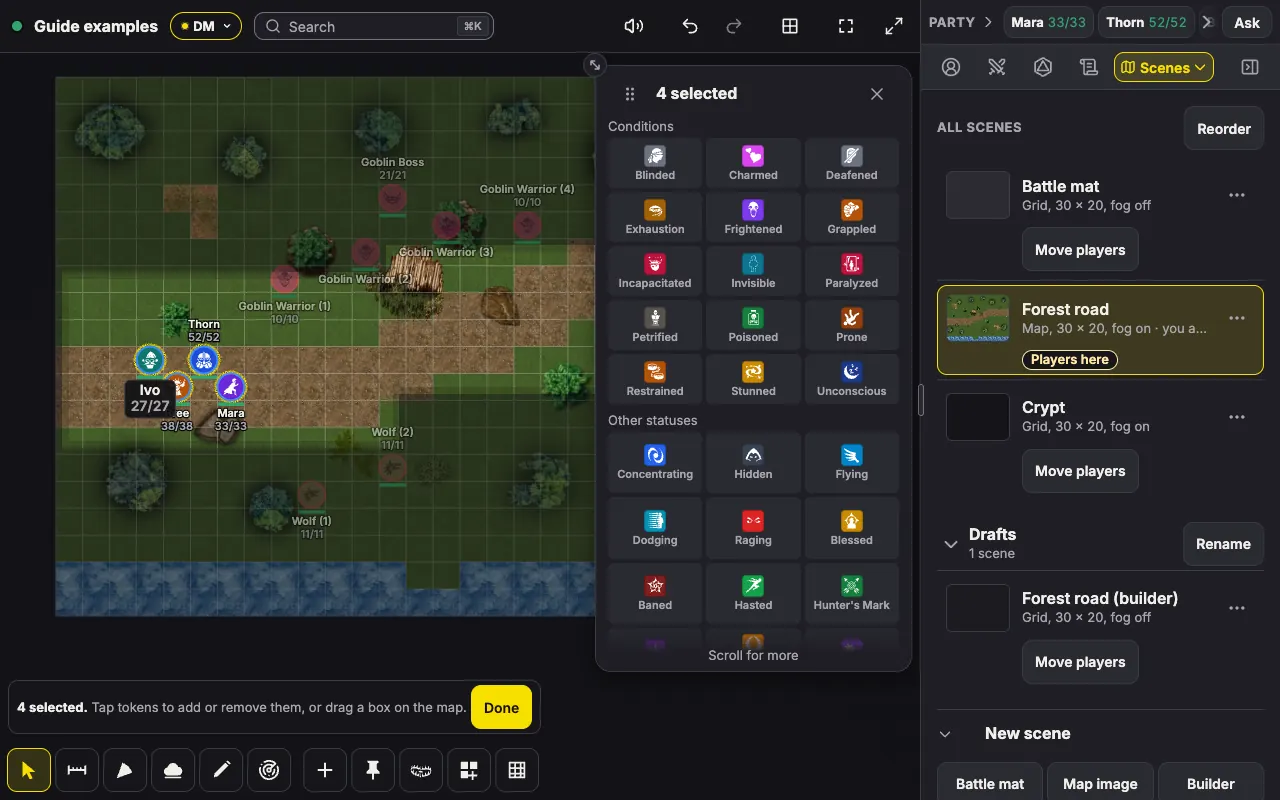
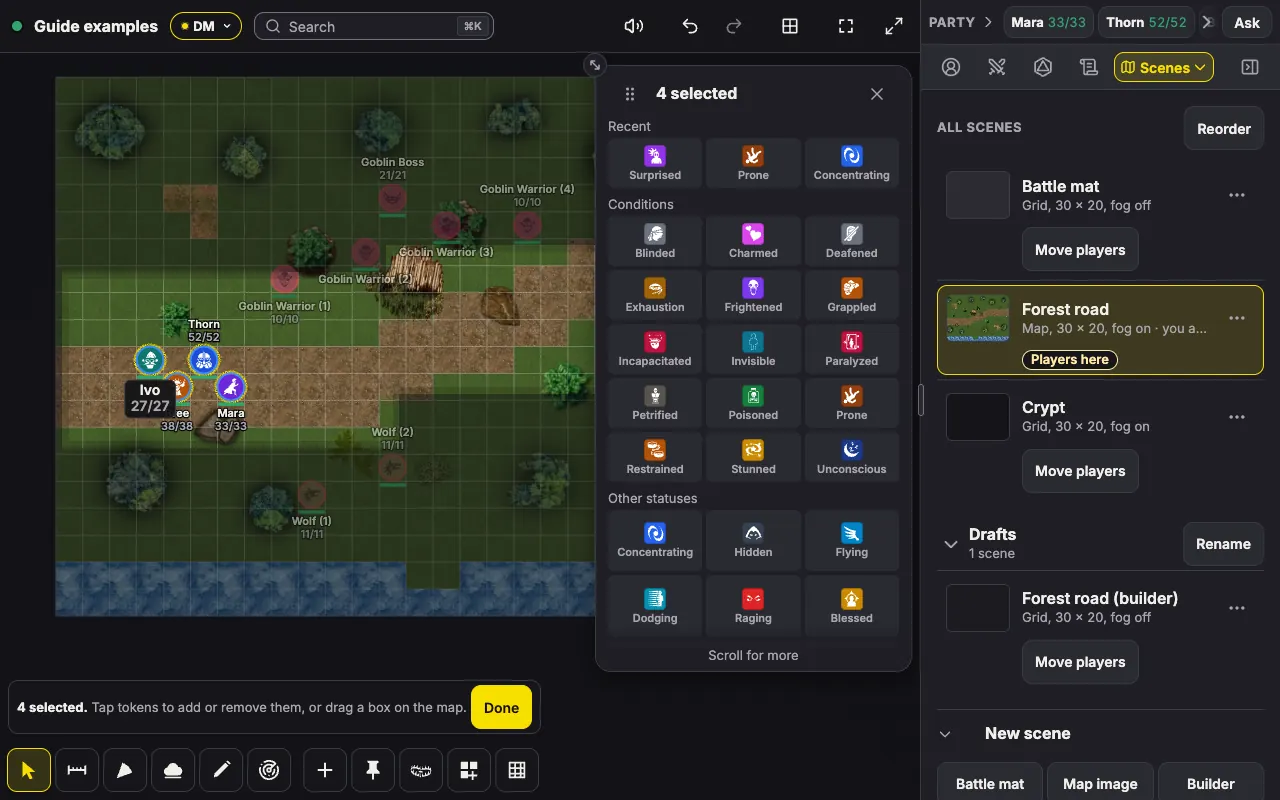
docs(guide): the conditions picture shows its Recent row

Changed region(s): [[0.5625, 0.1562, 0.6875, 0.5938], [0.4688, 0.1562, 0.5312, 0.8125], [0.5625, 0.625, 0.6875, 0.8125]]

diff --git a/scripts/guide-scenes/s36-surprise.ts b/scripts/guide-scenes/s36-surprise.ts
@@ -1,3 +1,4 @@
+// @ts-nocheck
 export default async (c: any) => {
   const dm = c.state.dm;
   const b = { w: 30, h: 20 };
@@ -11,6 +12,8 @@ export default async (c: any) => {
   await dm.waitForTimeout(600);
   await c.shot(dm, "look-group");
   const bar = await dm.locator("body").innerText();
+  // The three this device used last, newest first, which the grid shows first as Recent. A few earlier fights would have set them.
+  await dm.evaluate(() => localStorage.setItem("rvtt.recentConditions", JSON.stringify(["surprised", "prone", "concentrating"])));
   await dm.getByRole("button", { name: "Conditions", exact: true }).first().click();
   await dm.waitForTimeout(500);
   // Off the tokens, so no name label covers Bree.
